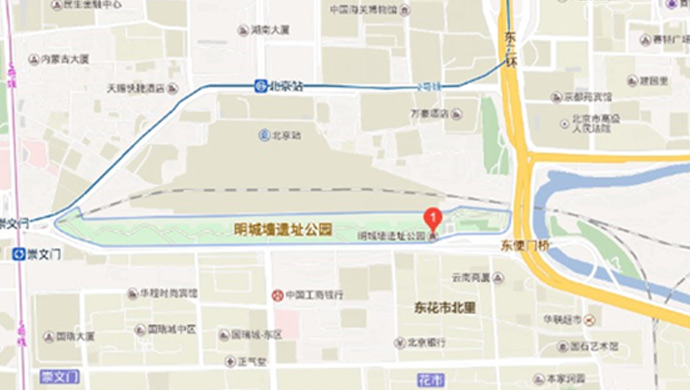
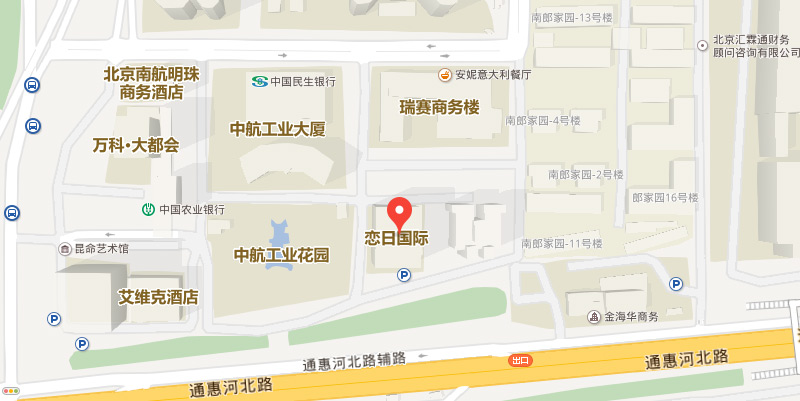
改

diff --git a/about.html b/about.html
@@ -123,7 +123,7 @@
                                 <li>
                                     <h2>联系方式</h2>
                                     <p>公司：北京众力飞特体育产业发展有限责任公司</p>
-                                    <p>地址：北京明城墙遗址公园</p>
+                                    <p>地址：北京市朝阳区南郎家园18号恋日国际大厦806室</p>
                                 </li>
                             </ul>
                             <div class="map">
